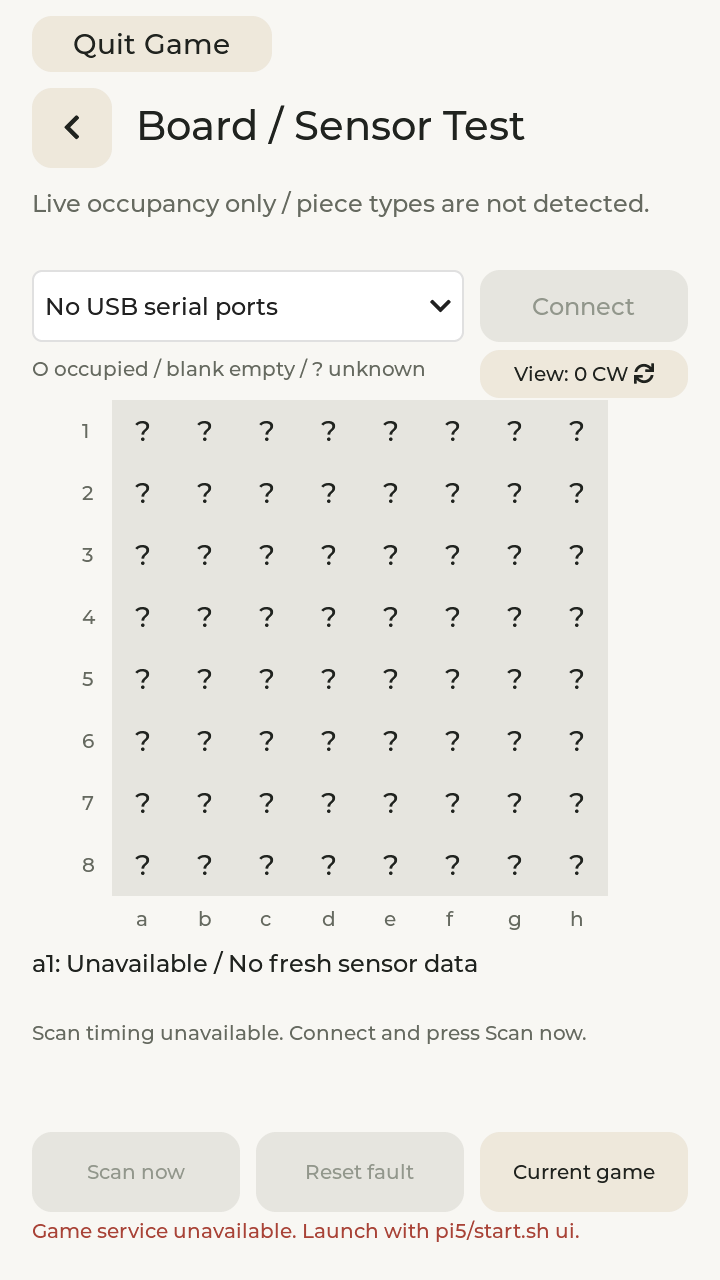
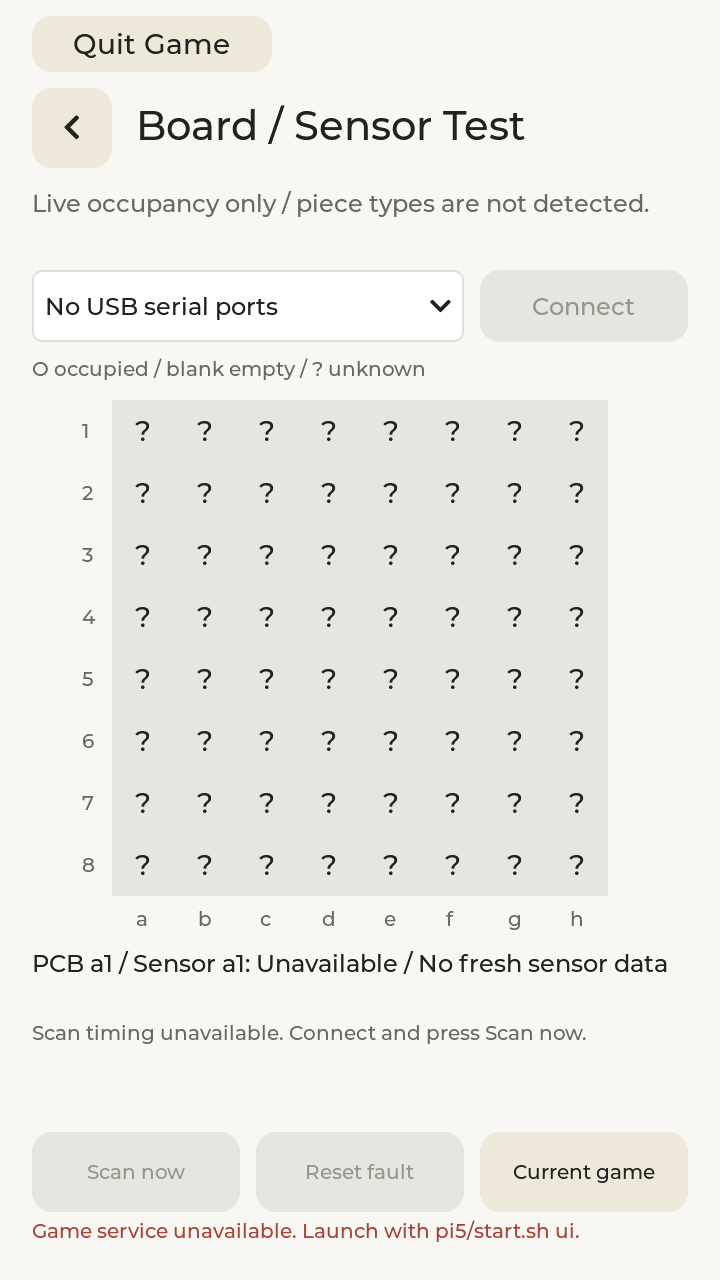
Sync final Pi terminal board-view alignment and fixed axis labels

diff --git a/pi5/ui/preview/index.html b/pi5/ui/preview/index.html
@@ -14,7 +14,7 @@ aside{padding-top:12px}nav{display:grid;gap:6px}button{font:inherit;cursor:point
 <section class="device" aria-label="原生触摸界面预览"><div class="viewport"><img id="screen" alt=""><div id="touches"></div></div><div class="pager"><button id="prev" aria-label="上一页">←</button><span id="count"></span><button id="next" aria-label="下一页">→</button></div></section>
 <section class="details"><span class="tag">Native UI + board service</span><h2 id="name" style="margin-top:16px" aria-live="polite"></h2><p id="description"></p><dl><div><dt>运行平台</dt><dd>Raspberry Pi 5</dd></div><div><dt>显示与触摸</dt><dd>DSI · GPIO 供电</dd></div><div><dt>原生画布</dt><dd>720 × 1280</dd></div><div><dt>界面程序</dt><dd>C / LVGL 9.3.0</dd></div></dl><p class="note">图像由同目录 C 程序使用空的临时数据库渲染。网页只展示版式；真实玩家和棋谱读写 SQLite，数据不会写在 HTML 中。原生程序通过本机服务接收真实棋盘状态。离线预览不启动服务、不生成对局。</p></section></main>
 <script>
-const screens={"home": ["主菜单", "新游戏、真实 SQLite 玩家库、已保存对局和独立棋盘测试。"], "setup": ["新游戏设置", "选择双人、人机或在线 AI coaching；双方独立选择是否需要 coaching。"], "setup-computer": ["人机设置", "选择玩家、执棋方和时间；不显示 Guidance 或 Hint。"], "setup-coach": ["AI coaching 设置", "白方和黑方都要明确选择 ON/OFF，支持四种组合。"], "coaching": ["AI coaching", "使用实际 OpenRouter 建议和解释；按当前回合和独立开关请求，失败可重试。"], "profiles": ["玩家库", "SQLite 玩家列表初始为空；创建、重命名、选择和删除均永久保存。"], "player-editor": ["创建玩家", "输入名称并保存到数据库，支持屏幕键盘、实体键盘及粘贴。"], "board-setup": ["摆棋和检查", "选择并连接棋盘，检查目标初始布局；真实占用匹配且人工确认棋子后才能开始。"], "game": ["实时对局", "显示后台提供的双方时钟、回合、走法和提示。离线截图没有虚构的对局数据。"], "move-editor": ["确认特殊走法", "无法从占用唯一识别的走法可手动输入 UCI，仍需通过合法性和实体占用检查。"], "history": ["历史记录", "从 SQLite 读取真实对局，包括未完成的局和实际结果。"], "diagnostics": ["棋盘测试", "默认以PCB方向显示真实占用，a1在左上角；原生界面可切换四个方向，格子与坐标标签同步旋转。断线显示未知。"], "instructions": ["电脑走法操作说明", "按实际电脑走法给出移除、移动和替换棋子的步骤；需要替换时人工确认。"], "review": ["真实棋谱回放", "读取保存的每步局面；没有记录时不会生成示例棋谱，也不会移动实体棋子。"]},maps={"width": 720, "height": 1280, "screens": {"home": [{"id": "quit-game", "target": "desktop", "x": 32, "y": 16, "w": 240, "h": 56, "disabled": false}, {"id": "new-game", "target": "setup", "x": 32, "y": 280, "w": 320, "h": 244, "disabled": false}, {"id": "players", "target": "profiles", "x": 368, "y": 280, "w": 320, "h": 244, "disabled": false}, {"id": "history", "target": "history", "x": 32, "y": 544, "w": 320, "h": 244, "disabled": false}, {"id": "diagnostics", "target": "diagnostics", "x": 368, "y": 544, "w": 320, "h": 244, "disabled": false}, {"id": "continue-game", "target": "game", "x": 32, "y": 1120, "w": 656, "h": 88, "disabled": true}], "setup": [{"id": "quit-game", "target": "desktop", "x": 32, "y": 16, "w": 240, "h": 56, "disabled": false}, {"id": "back", "target": "home", "x": 32, "y": 88, "w": 80, "h": 80, "disabled": false}, {"id": "choose-white", "target": "profiles", "x": 32, "y": 504, "w": 320, "h": 144, "disabled": false}, {"id": "choose-black", "target": "profiles", "x": 368, "y": 504, "w": 320, "h": 144, "disabled": false}, {"id": "prepare", "target": "board-setup", "x": 32, "y": 1128, "w": 656, "h": 96, "disabled": false}], "profiles": [{"id": "quit-game", "target": "desktop", "x": 32, "y": 16, "w": 240, "h": 56, "disabled": false}, {"id": "back", "target": "home", "x": 32, "y": 88, "w": 80, "h": 80, "disabled": false}, {"id": "create-player", "target": "player-editor", "x": 32, "y": 892, "w": 656, "h": 84, "disabled": false}, {"id": "rename-player", "target": "player-editor", "x": 32, "y": 996, "w": 320, "h": 80, "disabled": true}, {"id": "use-player", "target": "setup", "x": 32, "y": 1112, "w": 656, "h": 88, "disabled": true}], "history": [{"id": "quit-game", "target": "desktop", "x": 32, "y": 16, "w": 240, "h": 56, "disabled": false}, {"id": "back", "target": "home", "x": 32, "y": 88, "w": 80, "h": 80, "disabled": false}], "player-editor": [{"id": "quit-game", "target": "desktop", "x": 32, "y": 16, "w": 240, "h": 56, "disabled": false}, {"id": "back", "target": "profiles", "x": 32, "y": 88, "w": 80, "h": 80, "disabled": false}, {"id": "cancel-editor", "target": "profiles", "x": 368, "y": 1140, "w": 320, "h": 88, "disabled": false}], "board-setup": [{"id": "quit-game", "target": "desktop", "x": 32, "y": 16, "w": 240, "h": 56, "disabled": false}, {"id": "back", "target": "setup", "x": 32, "y": 88, "w": 80, "h": 80, "disabled": false}, {"id": "start-game", "target": "game", "x": 32, "y": 1160, "w": 656, "h": 64, "disabled": true}], "game": [{"id": "quit-game", "target": "desktop", "x": 32, "y": 16, "w": 240, "h": 56, "disabled": false}, {"id": "back", "target": "home", "x": 32, "y": 88, "w": 80, "h": 80, "disabled": false}, {"id": "confirm-move", "target": "move-editor", "x": 32, "y": 1040, "w": 656, "h": 80, "disabled": true}, {"id": "view-position", "target": "review", "x": 32, "y": 1140, "w": 320, "h": 80, "disabled": true}, {"id": "game-connection", "target": "board-setup", "x": 368, "y": 1140, "w": 320, "h": 80, "disabled": true}], "review": [{"id": "quit-game", "target": "desktop", "x": 32, "y": 16, "w": 240, "h": 56, "disabled": false}, {"id": "back", "target": "history", "x": 32, "y": 88, "w": 80, "h": 80, "disabled": false}], "move-editor": [{"id": "quit-game", "target": "desktop", "x": 32, "y": 16, "w": 240, "h": 56, "disabled": false}, {"id": "back", "target": "game", "x": 32, "y": 88, "w": 80, "h": 80, "disabled": false}, {"id": "save-move", "target": "game", "x": 32, "y": 1140, "w": 320, "h": 88, "disabled": false}, {"id": "cancel-move", "target": "game", "x": 368, "y": 1140, "w": 320, "h": 88, "disabled": false}], "diagnostics": [{"id": "quit-game", "target": "desktop", "x": 32, "y": 16, "w": 240, "h": 56, "disabled": false}, {"id": "back", "target": "home", "x": 32, "y": 88, "w": 80, "h": 80, "disabled": false}, {"id": "sensor-game", "target": "game", "x": 480, "y": 1132, "w": 208, "h": 80, "disabled": false}], "instructions": [{"id": "quit-game", "target": "desktop", "x": 32, "y": 16, "w": 240, "h": 56, "disabled": false}, {"id": "back", "target": "game", "x": 32, "y": 88, "w": 80, "h": 80, "disabled": false}], "coaching": [{"id": "quit-game", "target": "desktop", "x": 32, "y": 16, "w": 240, "h": 56, "disabled": false}, {"id": "back", "target": "game", "x": 32, "y": 88, "w": 80, "h": 80, "disabled": false}], "setup-computer": [{"id": "quit-game", "target": "desktop", "x": 32, "y": 16, "w": 240, "h": 56, "disabled": false}, {"id": "back", "target": "home", "x": 32, "y": 88, "w": 80, "h": 80, "disabled": false}, {"id": "choose-white", "target": "profiles", "x": 32, "y": 504, "w": 320, "h": 144, "disabled": false}, {"id": "choose-black", "target": "profiles", "x": 368, "y": 504, "w": 320, "h": 144, "disabled": true}, {"id": "prepare", "target": "board-setup", "x": 32, "y": 1128, "w": 656, "h": 96, "disabled": false}], "setup-coach": [{"id": "quit-game", "target": "desktop", "x": 32, "y": 16, "w": 240, "h": 56, "disabled": false}, {"id": "back", "target": "home", "x": 32, "y": 88, "w": 80, "h": 80, "disabled": false}, {"id": "choose-white", "target": "profiles", "x": 32, "y": 504, "w": 320, "h": 144, "disabled": false}, {"id": "choose-black", "target": "profiles", "x": 368, "y": 504, "w": 320, "h": 144, "disabled": false}, {"id": "prepare", "target": "board-setup", "x": 32, "y": 1128, "w": 656, "h": 96, "disabled": false}]}},names=Object.keys(screens);let current='home';
+const screens={"home": ["主菜单", "新游戏、真实 SQLite 玩家库、已保存对局和独立棋盘测试。"], "setup": ["新游戏设置", "选择双人、人机或在线 AI coaching；双方独立选择是否需要 coaching。"], "setup-computer": ["人机设置", "选择玩家、执棋方和时间；不显示 Guidance 或 Hint。"], "setup-coach": ["AI coaching 设置", "白方和黑方都要明确选择 ON/OFF，支持四种组合。"], "coaching": ["AI coaching", "使用实际 OpenRouter 建议和解释；按当前回合和独立开关请求，失败可重试。"], "profiles": ["玩家库", "SQLite 玩家列表初始为空；创建、重命名、选择和删除均永久保存。"], "player-editor": ["创建玩家", "输入名称并保存到数据库，支持屏幕键盘、实体键盘及粘贴。"], "board-setup": ["摆棋和检查", "选择并连接棋盘，检查目标初始布局；真实占用匹配且人工确认棋子后才能开始。"], "game": ["实时对局", "显示后台提供的双方时钟、回合、走法和提示。离线截图没有虚构的对局数据。"], "move-editor": ["确认特殊走法", "无法从占用唯一识别的走法可手动输入 UCI，仍需通过合法性和实体占用检查。"], "history": ["历史记录", "从 SQLite 读取真实对局，包括未完成的局和实际结果。"], "diagnostics": ["棋盘测试", "固定实物棋盘视图：横轴 a-h、纵轴 1-8；点击显示 PCB 与 Sensor 坐标。断线显示未知。"], "instructions": ["电脑走法操作说明", "按实际电脑走法给出移除、移动和替换棋子的步骤；需要替换时人工确认。"], "review": ["真实棋谱回放", "读取保存的每步局面；没有记录时不会生成示例棋谱，也不会移动实体棋子。"]},maps={"width": 720, "height": 1280, "screens": {"home": [{"id": "quit-game", "target": "desktop", "x": 32, "y": 16, "w": 240, "h": 56, "disabled": false}, {"id": "new-game", "target": "setup", "x": 32, "y": 280, "w": 320, "h": 244, "disabled": false}, {"id": "players", "target": "profiles", "x": 368, "y": 280, "w": 320, "h": 244, "disabled": false}, {"id": "history", "target": "history", "x": 32, "y": 544, "w": 320, "h": 244, "disabled": false}, {"id": "diagnostics", "target": "diagnostics", "x": 368, "y": 544, "w": 320, "h": 244, "disabled": false}, {"id": "continue-game", "target": "game", "x": 32, "y": 1120, "w": 656, "h": 88, "disabled": true}], "setup": [{"id": "quit-game", "target": "desktop", "x": 32, "y": 16, "w": 240, "h": 56, "disabled": false}, {"id": "back", "target": "home", "x": 32, "y": 88, "w": 80, "h": 80, "disabled": false}, {"id": "choose-white", "target": "profiles", "x": 32, "y": 504, "w": 320, "h": 144, "disabled": false}, {"id": "choose-black", "target": "profiles", "x": 368, "y": 504, "w": 320, "h": 144, "disabled": false}, {"id": "prepare", "target": "board-setup", "x": 32, "y": 1128, "w": 656, "h": 96, "disabled": false}], "profiles": [{"id": "quit-game", "target": "desktop", "x": 32, "y": 16, "w": 240, "h": 56, "disabled": false}, {"id": "back", "target": "home", "x": 32, "y": 88, "w": 80, "h": 80, "disabled": false}, {"id": "create-player", "target": "player-editor", "x": 32, "y": 892, "w": 656, "h": 84, "disabled": false}, {"id": "rename-player", "target": "player-editor", "x": 32, "y": 996, "w": 320, "h": 80, "disabled": true}, {"id": "use-player", "target": "setup", "x": 32, "y": 1112, "w": 656, "h": 88, "disabled": true}], "history": [{"id": "quit-game", "target": "desktop", "x": 32, "y": 16, "w": 240, "h": 56, "disabled": false}, {"id": "back", "target": "home", "x": 32, "y": 88, "w": 80, "h": 80, "disabled": false}], "player-editor": [{"id": "quit-game", "target": "desktop", "x": 32, "y": 16, "w": 240, "h": 56, "disabled": false}, {"id": "back", "target": "profiles", "x": 32, "y": 88, "w": 80, "h": 80, "disabled": false}, {"id": "cancel-editor", "target": "profiles", "x": 368, "y": 1140, "w": 320, "h": 88, "disabled": false}], "board-setup": [{"id": "quit-game", "target": "desktop", "x": 32, "y": 16, "w": 240, "h": 56, "disabled": false}, {"id": "back", "target": "setup", "x": 32, "y": 88, "w": 80, "h": 80, "disabled": false}, {"id": "start-game", "target": "game", "x": 32, "y": 1160, "w": 656, "h": 64, "disabled": true}], "game": [{"id": "quit-game", "target": "desktop", "x": 32, "y": 16, "w": 240, "h": 56, "disabled": false}, {"id": "back", "target": "home", "x": 32, "y": 88, "w": 80, "h": 80, "disabled": false}, {"id": "confirm-move", "target": "move-editor", "x": 32, "y": 1040, "w": 656, "h": 80, "disabled": true}, {"id": "view-position", "target": "review", "x": 32, "y": 1140, "w": 320, "h": 80, "disabled": true}, {"id": "game-connection", "target": "board-setup", "x": 368, "y": 1140, "w": 320, "h": 80, "disabled": true}], "review": [{"id": "quit-game", "target": "desktop", "x": 32, "y": 16, "w": 240, "h": 56, "disabled": false}, {"id": "back", "target": "history", "x": 32, "y": 88, "w": 80, "h": 80, "disabled": false}], "move-editor": [{"id": "quit-game", "target": "desktop", "x": 32, "y": 16, "w": 240, "h": 56, "disabled": false}, {"id": "back", "target": "game", "x": 32, "y": 88, "w": 80, "h": 80, "disabled": false}, {"id": "save-move", "target": "game", "x": 32, "y": 1140, "w": 320, "h": 88, "disabled": false}, {"id": "cancel-move", "target": "game", "x": 368, "y": 1140, "w": 320, "h": 88, "disabled": false}], "diagnostics": [{"id": "quit-game", "target": "desktop", "x": 32, "y": 16, "w": 240, "h": 56, "disabled": false}, {"id": "back", "target": "home", "x": 32, "y": 88, "w": 80, "h": 80, "disabled": false}, {"id": "sensor-game", "target": "game", "x": 480, "y": 1132, "w": 208, "h": 80, "disabled": false}], "instructions": [{"id": "quit-game", "target": "desktop", "x": 32, "y": 16, "w": 240, "h": 56, "disabled": false}, {"id": "back", "target": "game", "x": 32, "y": 88, "w": 80, "h": 80, "disabled": false}], "coaching": [{"id": "quit-game", "target": "desktop", "x": 32, "y": 16, "w": 240, "h": 56, "disabled": false}, {"id": "back", "target": "game", "x": 32, "y": 88, "w": 80, "h": 80, "disabled": false}], "setup-computer": [{"id": "quit-game", "target": "desktop", "x": 32, "y": 16, "w": 240, "h": 56, "disabled": false}, {"id": "back", "target": "home", "x": 32, "y": 88, "w": 80, "h": 80, "disabled": false}, {"id": "choose-white", "target": "profiles", "x": 32, "y": 504, "w": 320, "h": 144, "disabled": false}, {"id": "choose-black", "target": "profiles", "x": 368, "y": 504, "w": 320, "h": 144, "disabled": true}, {"id": "prepare", "target": "board-setup", "x": 32, "y": 1128, "w": 656, "h": 96, "disabled": false}], "setup-coach": [{"id": "quit-game", "target": "desktop", "x": 32, "y": 16, "w": 240, "h": 56, "disabled": false}, {"id": "back", "target": "home", "x": 32, "y": 88, "w": 80, "h": 80, "disabled": false}, {"id": "choose-white", "target": "profiles", "x": 32, "y": 504, "w": 320, "h": 144, "disabled": false}, {"id": "choose-black", "target": "profiles", "x": 368, "y": 504, "w": 320, "h": 144, "disabled": false}, {"id": "prepare", "target": "board-setup", "x": 32, "y": 1128, "w": 656, "h": 96, "disabled": false}]}},names=Object.keys(screens);let current='home';
 function show(key){if(!screens[key])key='home';current=key;document.getElementById('screen').src=key+'.png';document.getElementById('screen').alt=screens[key][0];document.getElementById('name').textContent=screens[key][0];document.getElementById('description').textContent=screens[key][1];document.getElementById('count').textContent=(names.indexOf(key)+1)+' / '+names.length;document.querySelectorAll('nav button').forEach(b=>b.setAttribute('aria-current',String(b.dataset.screen===key)));const layer=document.getElementById('touches');layer.replaceChildren();for(const h of maps.screens[key]||[]){const b=document.createElement('button');b.className='touch';b.disabled=h.disabled;b.setAttribute('aria-label',h.id.replaceAll('-',' '));Object.assign(b.style,{left:(h.x/maps.width*100)+'%',top:(h.y/maps.height*100)+'%',width:(h.w/maps.width*100)+'%',height:(h.h/maps.height*100)+'%'});b.onclick=()=>show(h.target);layer.appendChild(b)}history.replaceState(null,'','#'+key)}
 document.querySelectorAll('nav button').forEach(b=>b.onclick=()=>show(b.dataset.screen));document.getElementById('prev').onclick=()=>show(names[(names.indexOf(current)+names.length-1)%names.length]);document.getElementById('next').onclick=()=>show(names[(names.indexOf(current)+1)%names.length]);show(location.hash.slice(1)||'home');
 </script></body></html>

diff --git a/pi5/ui/src/scb_ui.c b/pi5/ui/src/scb_ui.c
@@ -519,6 +519,11 @@ static void active_game(void) {
 }
 /* 将屏幕格子反算为原始棋盘坐标；旋转只改变显示，不修改传感器数据。 */
 static int diagnostic_square(int row, int column, int quarter_turns) {
+    /* 与最后一版 Pi Terminal 补丁保持一致：四角校正后再上下翻转。 */
+    int previous_row = row;
+    row = 7 - column;
+    column = 7 - previous_row;
+    row = 7 - row;
     int file = column, rank = row;
     for(int i = 0; i < quarter_turns; ++i) {
         int old_file = file;
@@ -528,7 +533,7 @@ static int diagnostic_square(int row, int column, int quarter_turns) {
     return rank*8+file;
 }
 static void diagnostics(void) {
-    /* 颜色、坐标标签和触摸格子一起旋转；未知数据仍显示 ?。 */
+    /* 固定实物显示方向：横轴 a-h、纵轴从上到下 1-8。 */
     shell("Board / Sensor Test", "Live occupancy only / piece types are not detected.");
     port_dropdown = lv_dropdown_create(root());
     lv_obj_set_pos(port_dropdown, 32, 270);
@@ -545,9 +550,9 @@ static void diagnostics(void) {
     lv_obj_t *rotate = button(root(), rotation, 480, 350, 208, 48, false,
                              "rotate-board", A_ROTATE_DIAGNOSTICS, 0, NULL);
     lv_obj_set_style_text_font(rotate, font(20), 0);
+    lv_obj_add_flag(rotate, LV_OBJ_FLAG_HIDDEN);
     for(int r = 0; r < 8; ++r) {
-        int left = diagnostic_square(r, 0, config.diagnostic_rotation);
-        char rank[2] = {(char)((config.diagnostic_rotation & 1) ? 'a'+left%8 : '1'+left/8), 0};
+        char rank[2] = {(char)('1'+r), 0};
         text(root(), rank, 82, 420+r*62, 24, 20, MUTED);
         for(int c = 0; c < 8; ++c) {
             int square = diagnostic_square(r, c, config.diagnostic_rotation);
@@ -557,8 +562,7 @@ static void diagnostics(void) {
         }
     }
     for(int c = 0; c < 8; ++c) {
-        int bottom = diagnostic_square(7, c, config.diagnostic_rotation);
-        char file[2] = {(char)((config.diagnostic_rotation & 1) ? '1'+bottom/8 : 'a'+bottom%8), 0};
+        char file[2] = {(char)('a'+c), 0};
         text(root(), file, 136+c*62, 908, 24, 20, MUTED);
     }
     sensor_detail = text(root(), "", 32, 950, 656, 24, INK);
@@ -902,7 +906,13 @@ static void refresh_live(void) {
             lv_obj_set_style_border_color(sensor_tiles[i], lv_color_hex(RED), 0);
         }
         int q = config.selected_square;
-        snprintf(value, sizeof(value), "%c%d: %s / %s", 'a'+q%8, q/8+1, !known ? "Unavailable" : ((mask>>q)&1) ? "Occupied" : "Empty",
+        int pcb_row = 0, pcb_col = 0;
+        for(int r = 0; r < 8; ++r)
+            for(int c = 0; c < 8; ++c)
+                if(diagnostic_square(r, c, config.diagnostic_rotation) == q) {
+                    pcb_row = r; pcb_col = c;
+                }
+        snprintf(value, sizeof(value), "PCB %c%d / Sensor %c%d: %s / %s", 'a'+pcb_col, pcb_row+1, 'a'+q%8, q/8+1, !known ? "Unavailable" : ((mask>>q)&1) ? "Occupied" : "Empty",
                  !known ? "No fresh sensor data" : compare ? mask == expected ? "Board matches" : "Red border = mismatch" : "No game position to compare");
         label_value(sensor_detail, value);
         int64_t period = ui_json_int(&bridge, bridge.state, "$.scan_timing.frame_us", -1);
@@ -1052,7 +1062,7 @@ static void click(lv_event_t *event) {
         }
         case A_SQUARE: config.selected_square = (int)hit.value; refresh_live(); break;
         case A_ROTATE_DIAGNOSTICS:
-            config.diagnostic_rotation = (config.diagnostic_rotation+1)%4;
+            /* Fixed PCB view: rotation is disabled. */
             scb_ui_show(UI_DIAGNOSTICS);
             break;
         case A_CONFIRM_COMPUTER: {
@@ -1129,7 +1139,7 @@ void scb_ui_init(const char *path) {
     editing_id = deleting_id = 0;
     memset(&config, 0, sizeof(config));
     config.minutes = 10;
-    config.diagnostic_rotation = 0; /* PCB 丝印朝上、接口在左：HE1 从左上角开始。 */
+    config.diagnostic_rotation = 3; /* Fixed final Pi Terminal view. */
     config.coach[0] = config.coach[1] = -1;
     config.pick_side = -1;
     config.review_return = UI_HISTORY;
@@ -1223,8 +1233,8 @@ static bool label_bounds(lv_obj_t *parent) {
 bool scb_ui_smoke_test(void) {
     /* The host supplies an isolated temporary database for this test. */
     if(!data_ok || player_count || selected.id) return false;
-    if(!press("diagnostics") || current != UI_DIAGNOSTICS || config.diagnostic_rotation != 0) return false;
-    const int corners[4][4] = {{0,7,56,63}, {7,63,0,56}, {63,56,7,0}, {56,0,63,7}};
+    if(!press("diagnostics") || current != UI_DIAGNOSTICS || config.diagnostic_rotation != 3) return false;
+    const int corners[4][4] = {{7,63,0,56}, {63,56,7,0}, {56,0,63,7}, {0,7,56,63}};
     for(int turn = 0; turn < 4; ++turn) {
         int rotation = config.diagnostic_rotation;
         bool seen[64] = {false};
@@ -1244,7 +1254,7 @@ bool scb_ui_smoke_test(void) {
         if(config.selected_square != corners[rotation][0] || !label_bounds(root())) return false;
         if(!press("rotate-board")) return false;
     }
-    if(config.diagnostic_rotation != 0 || !press("back") || current != UI_HOME) return false;
+    if(config.diagnostic_rotation != 3 || !press("back") || current != UI_HOME) return false;
     if(!press("new-game") || current != UI_SETUP) return false;
     if(!press("mode-computer") || config.mode != 1) return false;
     for(unsigned i = 0; i < hit_count; ++i) if(hits[i].action == A_GUIDANCE) return false;
@@ -1354,7 +1364,7 @@ bool scb_ui_service_test(void) {
         if(strcmp(lv_label_get_text(lv_obj_get_child(sensor_tiles[28], 0)), "O") ||
            strcmp(lv_label_get_text(lv_obj_get_child(sensor_tiles[12], 0)), "")) return false;
     }
-    if(config.diagnostic_rotation != 0) return false;
+    if(config.diagnostic_rotation != 3) return false;
     if(!press("back") || !press("continue-game") || current != UI_GAME || !state_flag("$.paused")) return false;
     if(!press("game-guidance") || !wait_json(bridge.state, "$.guidance", "1")) return false;
     if(!press("game-guidance") || !wait_json(bridge.state, "$.guidance", "0")) return false;

diff --git a/pi5/ui/tools/make_preview.py b/pi5/ui/tools/make_preview.py
@@ -17,7 +17,7 @@ SCREENS = {
     "game": ("实时对局", "显示后台提供的双方时钟、回合、走法和提示。离线截图没有虚构的对局数据。"),
     "move-editor": ("确认特殊走法", "无法从占用唯一识别的走法可手动输入 UCI，仍需通过合法性和实体占用检查。"),
     "history": ("历史记录", "从 SQLite 读取真实对局，包括未完成的局和实际结果。"),
-    "diagnostics": ("棋盘测试", "默认以PCB方向显示真实占用，a1在左上角；原生界面可切换四个方向，格子与坐标标签同步旋转。断线显示未知。"),
+    "diagnostics": ("棋盘测试", "固定实物棋盘视图：横轴 a-h、纵轴 1-8；点击显示 PCB 与 Sensor 坐标。断线显示未知。"),
     "instructions": ("电脑走法操作说明", "按实际电脑走法给出移除、移动和替换棋子的步骤；需要替换时人工确认。"),
     "review": ("真实棋谱回放", "读取保存的每步局面；没有记录时不会生成示例棋谱，也不会移动实体棋子。"),
 }

diff --git a/pi5/ui/README.md b/pi5/ui/README.md
@@ -149,6 +149,8 @@ Input is hidden. The existing private `pi5/.openrouter-key` file is reused and e
 
 UI AI requests run in a separate worker, with an 8-second HTTP timeout, one attempt per request and a 10-second UI waiting limit. Failure shows an unavailable message without pausing human play or generating replacement advice. Old-position results and results disabled while pending are discarded. Changing networks may require retrying AI advice. Tests mock HTTP responses and do not charge an API account; real connectivity, credentials and model availability need verification on the Pi.
 
-## Board / Sensor Test display rotation
+## Fixed Board / Sensor Test view
 
-The diagnostic board defaults to a PCB-oriented view with a1 at the top left. Tap `View: ... CW` above the grid to cycle 0 -> 90 -> 180 -> 270 degrees clockwise. Square positions, edge labels, tap selection, occupancy colors and mismatch borders move together. The choice is kept while this application is running; restarting restores the PCB-oriented default. This affects only the diagnostic display, not firmware coordinates, LED mapping, game setup, saved positions or replay. Rotating does not disconnect USB, scan, move a piece or alter the active game.
+The diagnostic display uses the final alignment patches supplied for the Pi Terminal: fixed rotation, vertical correction and four-corner diagonal correction. The rotation control is hidden. Columns are a-h from left to right; rows are 1-8 from top to bottom. Tapping a cell shows both its PCB display coordinate and the original Sensor coordinate. Firmware masks, LED addressing and game/replay coordinates are unchanged.
+
+This version reconstructs those supplied patches; the Pi was unreachable when committing it. Software tests check the mapping, but the final physical alignment must still be verified on the Pi using all four corners and interior squares.
